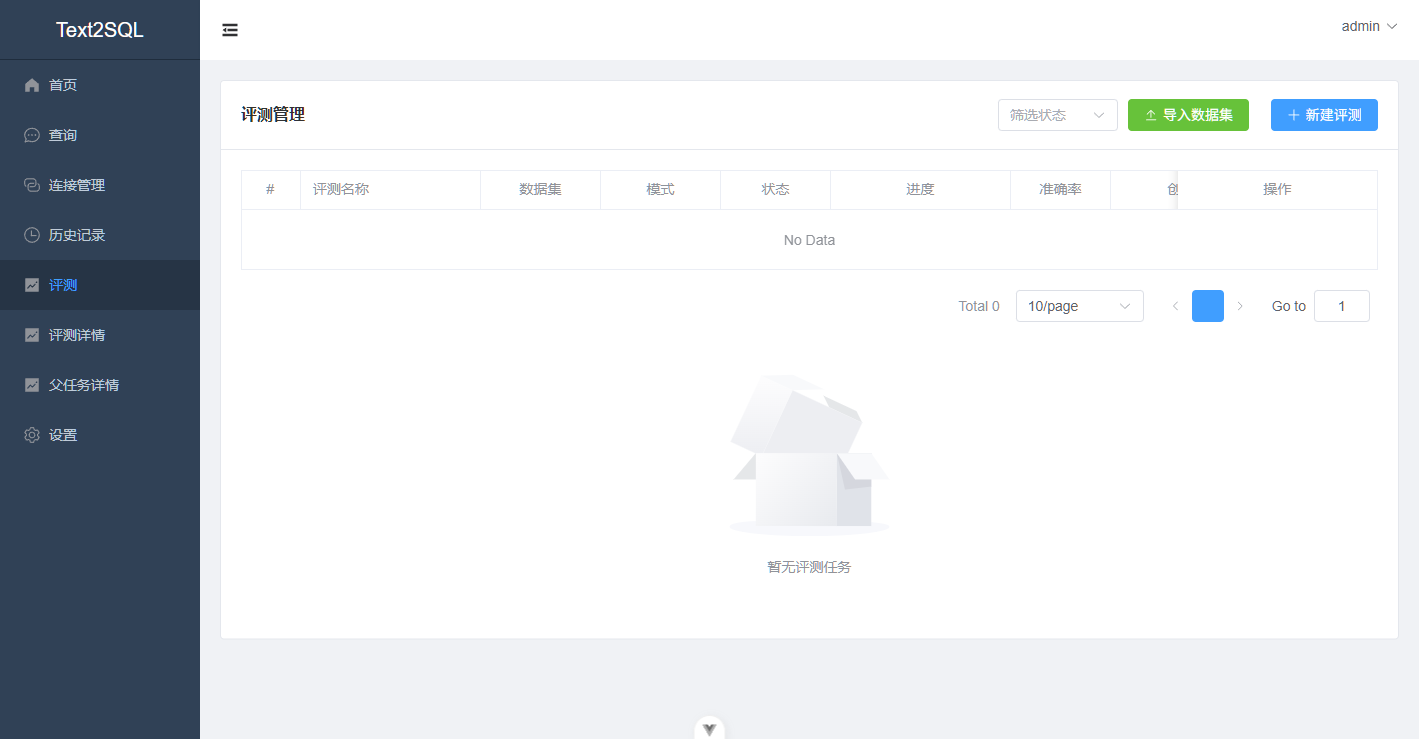
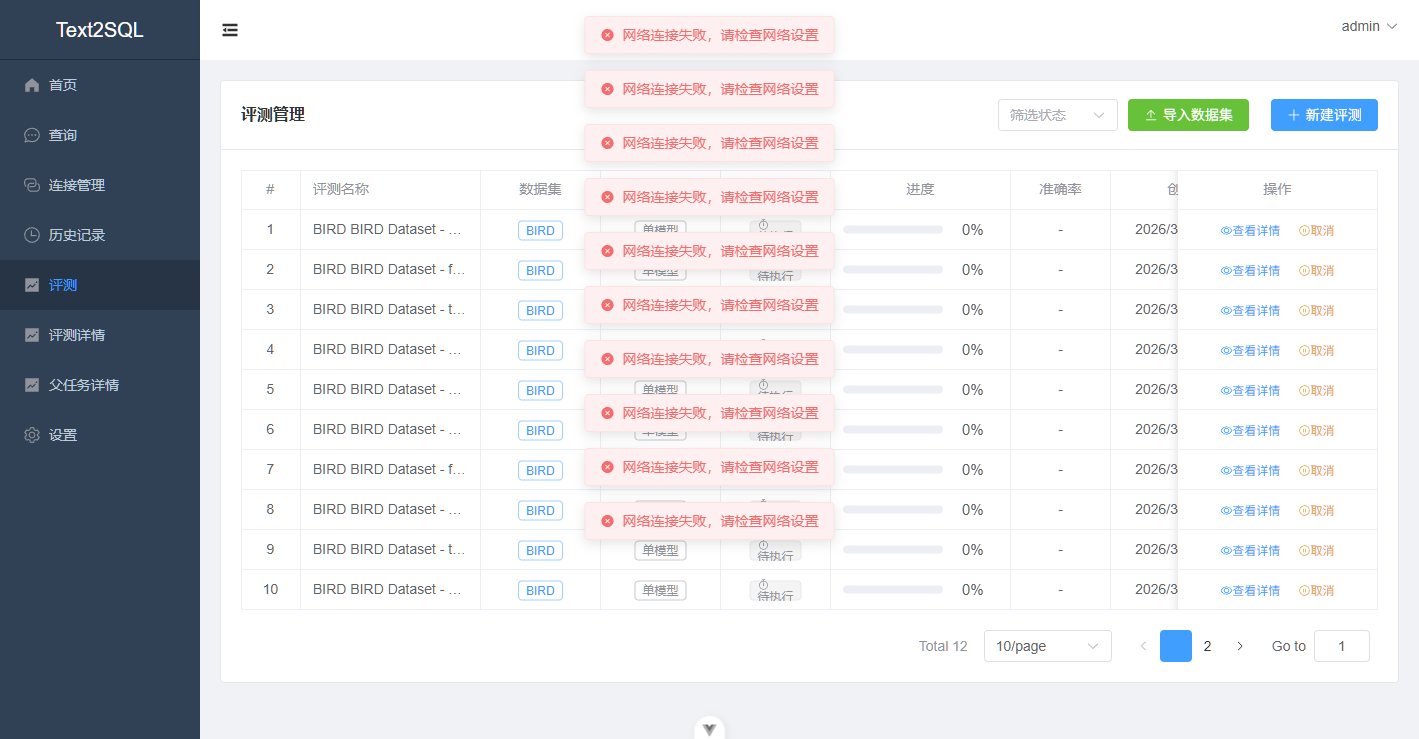
fix(schema): 修复 EvalTaskResponse model_config 字段冲突
- 将 model_settings 字段改为 Optional 并设置默认值为 None
- 解决 Pydantic model_config 与 SQLAlchemy 属性命名冲突
- 修复网络连接失败问题

Fixes BUG-010

diff --git a/project/text-to-sql-prototype/backend/app/schemas/evaluation.py b/project/text-to-sql-prototype/backend/app/schemas/evaluation.py
@@ -120,7 +120,7 @@ class EvalTaskResponse(BaseModel):
     name: str
     dataset_type: str
     dataset_path: Optional[str]
-    model_settings: Dict[str, Any] = Field(alias="model_config")
+    model_settings: Optional[Dict[str, Any]] = Field(default=None, alias="model_config")
     eval_mode: str
     status: str
     progress_percent: int
@@ -172,7 +172,7 @@ class EvalTaskWithChildrenResponse(BaseModel):
     task_type: str
     dataset_type: str
     dataset_path: Optional[str]
-    model_settings: Dict[str, Any] = Field(alias="model_config")
+    model_settings: Optional[Dict[str, Any]] = Field(default=None, alias="model_config")
     eval_mode: str
     status: str
     progress_percent: int
